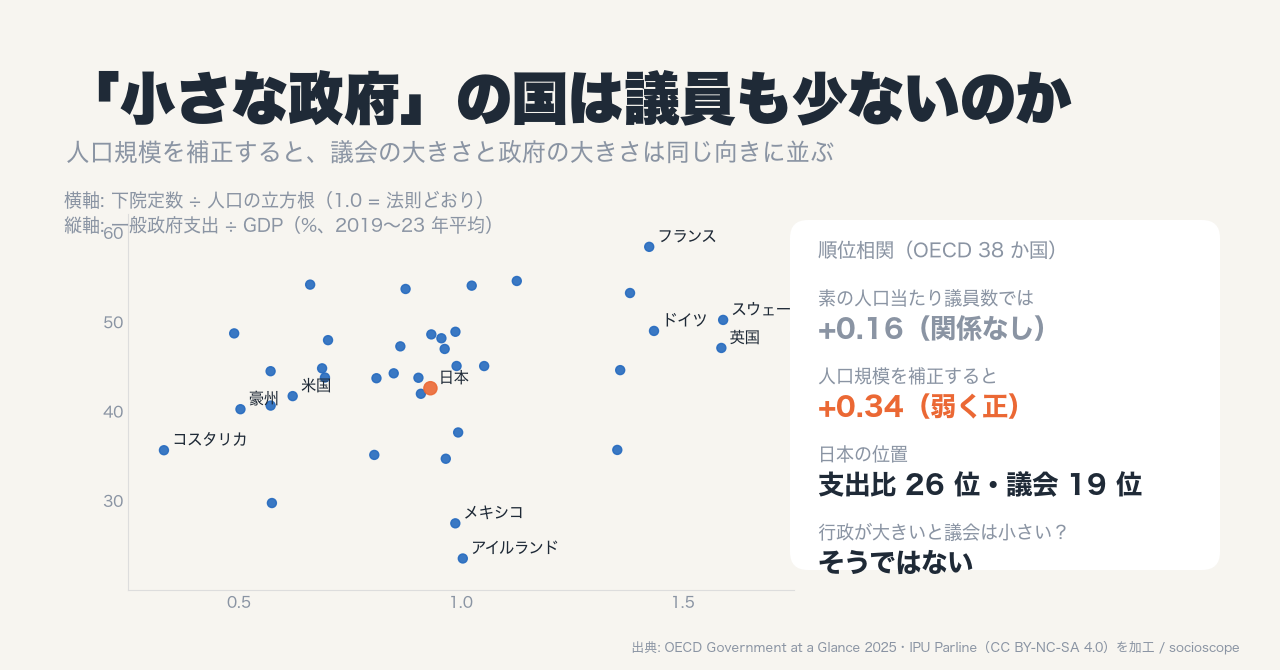
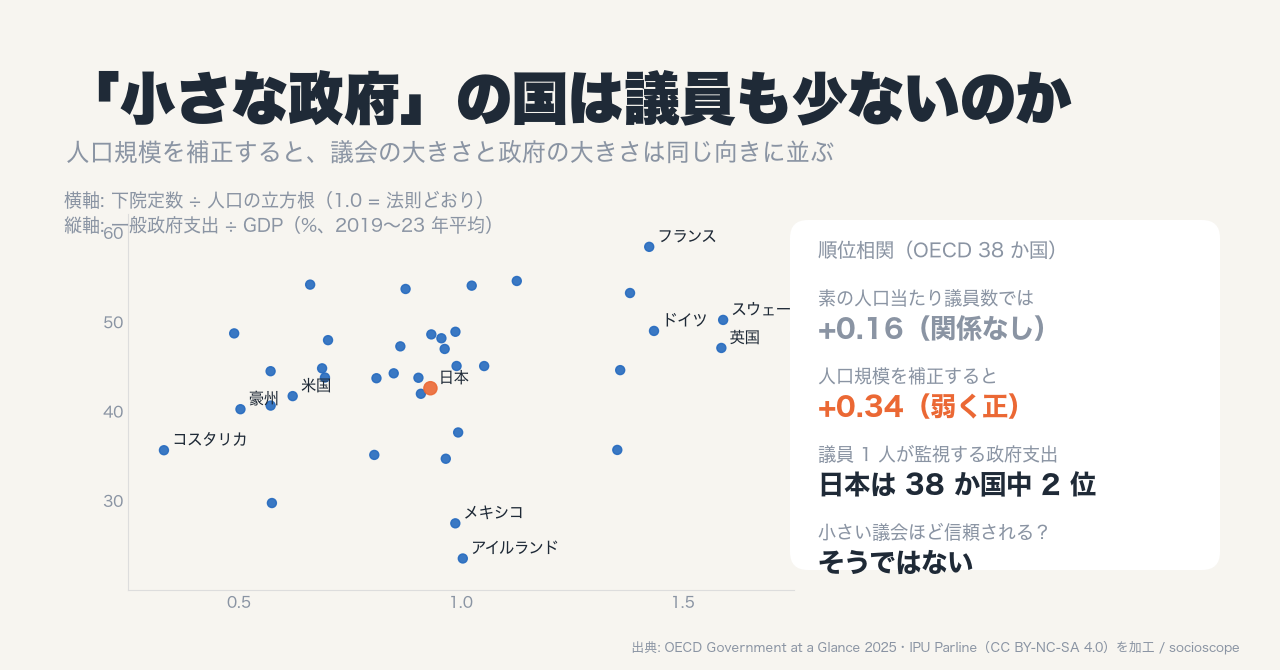
docs(parliament-size): 番外編記事に R17（選挙制度・議員 1 人当たりの監視対象・信頼）を反映、ヘッダー画像を更新

Changed region(s): [[0.625, 0.6567, 0.9062, 0.7463], [0.625, 0.7761, 0.8438, 0.806]]

diff --git a/docs/articles/headers/make_headers.py b/docs/articles/headers/make_headers.py
@@ -1347,8 +1347,8 @@ def parliament_size_extra() -> Path:
     items = [
         ("素の人口当たり議員数では", "+0.16（関係なし）", MUTED),
         ("人口規模を補正すると", "+0.34（弱く正）", ORANGE),
-        ("日本の位置", "支出比 26 位・議会 19 位", INK),
-        ("行政が大きいと議会は小さい？", "そうではない", INK),
+        ("議員 1 人が監視する政府支出", "日本は 38 か国中 2 位", INK),
+        ("小さい議会ほど信頼される？", "そうではない", INK),
     ]
     for i, (label, value, color) in enumerate(items):
         y = 372 - i * 78

diff --git a/docs/articles/2026-10-29-note-parliament-size-extra-government-size.final.md b/docs/articles/2026-10-29-note-parliament-size-extra-government-size.final.md
@@ -30,18 +30,49 @@
 
 もう一つ確かめたのは「行政が大きければ議会は小さくて済む」という代替関係です。これはありませんでした。議会と行政は、同じ方向に大きい国が多い。
 
+## 深掘り 1: 選挙制度のせいではないのか
+
+比較政治には「比例代表制の国ほど政府が大きい」という有名な結果があります（Persson と Tabellini、2003 年）。比例代表制は選挙区の定数が大きく議会も大きくなりやすいので、上の関係は「比例代表制が議会と政府の両方を大きくしている」だけかもしれません。
+
+確かめると、そうとも言い切れませんでした。OECD 38 か国を比例代表制（25 か国）とそれ以外（多数代表制 5、混合制 8。日本は混合制）に分けると、政府支出比の中央値は 44.8% と 43.7% でほとんど差がなく、有名な結果はこの粗い比較では出ません。比例代表制の国だけに絞っても、議会の大きさと政府の大きさの順位相関は +0.21 と弱まるものの消えず、それ以外の 13 か国では +0.58 とむしろ強い。選挙制度は関係の一部を説明しますが、全部ではありません。
+
+## 深掘り 2: 議員 1 人が監視する政府支出
+
+議会の大きさを人口ではなく「監視する相手の大きさ」で測り直すと、日本の位置が変わります。
+
+【画像を挿入: r17_spending_per_member.png】
+
+議員 1 人当たりの一般政府支出（10 億 USD、購買力平価、2019〜2023 年平均）。出典: OECD Government at a Glance 2025、IPU Parline（CC BY-NC-SA 4.0）
+
+一般政府支出を下院定数で割ると、日本の議員は 1 人当たり 52 億 USD（購買力平価）の政府支出を監視していることになります。38 か国中 2 位で、1 位の米国（236 億 USD）に次ぎ、3 位の豪州（45 億）、ドイツ（42 億）、イタリア（41 億）を上回ります。中央値（13 億）の 3.9 倍です。定数を 420 にすれば 57 億になり、2 位のまま 3 位との差が広がります。
+
+しかも、議員 1 人当たりの政府支出が大きい国ほど、議会予算が政府予算に占める比率は小さい（順位相関 −0.42）。監視する相手が大きい国ほど、監視に充てる資源は相対的に薄い。日本の議会予算は政府予算の 0.096% で、37 か国中 少ない方から 9 位です。
+
+## 深掘り 3: 小さい議会は信頼されるのか
+
+定数削減の推進には「議員を減らせば議会への信頼が回復する」という期待が含まれています。OECD の信頼調査（2023 年、日本は 2021 年）で確かめました。
+
+【画像を挿入: r17_trust_vs_cube.png】
+
+立方根補正比（横軸）と、立法府を信頼する人の割合（縦軸、高い＋やや高い）。32 か国。出典: OECD Survey on Drivers of Trust in Public Institutions 2023、IPU Parline
+
+人口規模を補正した議会の大きさと立法府への信頼の順位相関は +0.23 で、「小さい議会ほど信頼される」という向きではありません。弱いながら逆で、人口のわりに議会が大きい国（フィンランド、スウェーデン、ノルウェー）の方が信頼は高い。素の人口当たり議員数で見ても +0.35 です。信頼は議員 1 人当たりの政府支出とも無関係でした（−0.02）。日本の立法府への信頼は 19.3% で、32 か国中 低い方から 2 位。議会を小さくすれば信頼が上がるという横断面の証拠は、この範囲ではありません。
+
 ## どう読むか
 
-質問の答えは「ある。ただし人口規模を補正した指標で見たときだけ、弱く」です。日本の人口当たり議員数が少ないのは、第一に人口が 1 億 2 千万人と大きいからで、政府観の違いではありません。しかし人口の効果を除いた「議会をどれだけ大きくするか」という選択は、政府をどれだけ大きくするかという選択と同じ向きにあるようです。
+質問の答えは「ある。ただし人口規模を補正した指標で見たときだけ、弱く」です。日本の人口当たり議員数が少ないのは、第一に人口が 1 億 2 千万人と大きいからで、政府観の違いではありません。しかし人口の効果を除いた「議会をどれだけ大きくするか」という選択は、政府をどれだけ大きくするかという選択と同じ向きにあるようです。選挙制度で全部は説明できませんでした。
+
+将来に向けて言えることが一つあります。高齢化で年金と医療の支出は増え、政府は放っておいても大きくなります。議会の監視対象は自動的に膨らむ。日本の議員 1 人が監視する政府支出は既に世界で 2 番目に大きく、定数を減らせばさらに広がります。定数を減らすなら、職員と委員会の資源で監視の薄まりを補うのかを同時に決める必要があります。これは本編の結論（世論の不満に応える政策は人数ではなく報酬と手当の水準と透明性）を、将来の側から言い換えたものです。
 
 これは因果ではありません。議会の大きさも政府の大きさも、建国期の制度選択、政治文化、連邦制かどうかといった共通の原因を持ちます。連邦制の国では州議会の議員と州政府の支出が国の数字に入らないので、議会の大きさを過小に測っています。「小さな政府」も支出比だけで測っており、規制の強さは含みません。
 
-日本はどちらの指標でも中位です。支出比 42.5% は 38 か国中 高い方から 26 位、立方根補正比 0.93 は 19 位。「小さな政府で議会も小さい」側にはいません。本編の結論（世論の不満に応える政策は人数ではなく報酬と手当の水準と透明性）は、この番外編で変わりません。
+日本は政府の大きさでも議会の大きさでも中位です。支出比 42.5% は 38 か国中 高い方から 26 位、立方根補正比 0.93 は 19 位。「小さな政府で議会も小さい」側にはいません。突出しているのは、議員 1 人が監視する政府支出の大きさと、立法府への信頼の低さです。
 
 ## 出典とライセンス
 
 - OECD (2025), Government at a Glance 2025, https://sdmx.oecd.org (accessed 2026-10-29)。OECD Terms & Conditions（出典表示で利用可）。
+- OECD (2025), OECD Survey on Drivers of Trust in Public Institutions 2023（Government at a Glance の「Trust, security and dignity」）。
 - Inter-Parliamentary Union, Parline: global data on national parliaments, https://data.ipu.org (accessed 2026-10-28)。CC BY-NC-SA 4.0（非商用）。
 - 連邦制の分類は Forum of Federations。
-- 分析コードと詳細レポート（判定基準、頑健性チェック、再現手順つき）は GitHub の socioscope リポジトリで公開しています（コードは MIT ライセンス）: https://github.com/mendorie/socioscope/blob/main/themes/parliament-size/reports/2026-10-29-r16-government-size.md
+- 分析コードと詳細レポート（判定基準、頑健性チェック、再現手順つき）は GitHub の socioscope リポジトリで公開しています（コードは MIT ライセンス）: https://github.com/mendorie/socioscope/blob/main/themes/parliament-size/reports/2026-10-29-r16-government-size.md （R16）、同 2026-10-30-r17-system-oversight-trust.md（R17）
 - 図を転載する場合は上記の出典表記を付けてください。

diff --git a/docs/articles/2026-10-29-note-parliament-size-extra-government-size.md b/docs/articles/2026-10-29-note-parliament-size-extra-government-size.md
@@ -30,18 +30,49 @@
 
 もう一つ確かめたのは「行政が大きければ議会は小さくて済む」という代替関係です。これはありませんでした。議会と行政は、同じ方向に大きい国が多い。
 
+## 深掘り 1: 選挙制度のせいではないのか
+
+比較政治には「比例代表制の国ほど政府が大きい」という有名な結果があります（Persson と Tabellini、2003 年）。比例代表制は選挙区の定数が大きく議会も大きくなりやすいので、上の関係は「比例代表制が議会と政府の両方を大きくしている」だけかもしれません。
+
+確かめると、そうとも言い切れませんでした。OECD 38 か国を比例代表制（25 か国）とそれ以外（多数代表制 5、混合制 8。日本は混合制）に分けると、政府支出比の中央値は 44.8% と 43.7% でほとんど差がなく、有名な結果はこの粗い比較では出ません。比例代表制の国だけに絞っても、議会の大きさと政府の大きさの順位相関は +0.21 と弱まるものの消えず、それ以外の 13 か国では +0.58 とむしろ強い。選挙制度は関係の一部を説明しますが、全部ではありません。
+
+## 深掘り 2: 議員 1 人が監視する政府支出
+
+議会の大きさを人口ではなく「監視する相手の大きさ」で測り直すと、日本の位置が変わります。
+
+【画像を挿入: r17_spending_per_member.png】
+
+議員 1 人当たりの一般政府支出（10 億 USD、購買力平価、2019〜2023 年平均）。出典: OECD Government at a Glance 2025、IPU Parline（CC BY-NC-SA 4.0）
+
+一般政府支出を下院定数で割ると、日本の議員は 1 人当たり 52 億 USD（購買力平価）の政府支出を監視していることになります。38 か国中 2 位で、1 位の米国（236 億 USD）に次ぎ、3 位の豪州（45 億）、ドイツ（42 億）、イタリア（41 億）を上回ります。中央値（13 億）の 3.9 倍です。定数を 420 にすれば 57 億になり、2 位のまま 3 位との差が広がります。
+
+しかも、議員 1 人当たりの政府支出が大きい国ほど、議会予算が政府予算に占める比率は小さい（順位相関 −0.42）。監視する相手が大きい国ほど、監視に充てる資源は相対的に薄い。日本の議会予算は政府予算の 0.096% で、37 か国中 少ない方から 9 位です。
+
+## 深掘り 3: 小さい議会は信頼されるのか
+
+定数削減の推進には「議員を減らせば議会への信頼が回復する」という期待が含まれています。OECD の信頼調査（2023 年、日本は 2021 年）で確かめました。
+
+【画像を挿入: r17_trust_vs_cube.png】
+
+立方根補正比（横軸）と、立法府を信頼する人の割合（縦軸、高い＋やや高い）。32 か国。出典: OECD Survey on Drivers of Trust in Public Institutions 2023、IPU Parline
+
+人口規模を補正した議会の大きさと立法府への信頼の順位相関は +0.23 で、「小さい議会ほど信頼される」という向きではありません。弱いながら逆で、人口のわりに議会が大きい国（フィンランド、スウェーデン、ノルウェー）の方が信頼は高い。素の人口当たり議員数で見ても +0.35 です。信頼は議員 1 人当たりの政府支出とも無関係でした（−0.02）。日本の立法府への信頼は 19.3% で、32 か国中 低い方から 2 位。議会を小さくすれば信頼が上がるという横断面の証拠は、この範囲ではありません。
+
 ## どう読むか
 
-質問の答えは「ある。ただし人口規模を補正した指標で見たときだけ、弱く」です。日本の人口当たり議員数が少ないのは、第一に人口が 1 億 2 千万人と大きいからで、政府観の違いではありません。しかし人口の効果を除いた「議会をどれだけ大きくするか」という選択は、政府をどれだけ大きくするかという選択と同じ向きにあるようです。
+質問の答えは「ある。ただし人口規模を補正した指標で見たときだけ、弱く」です。日本の人口当たり議員数が少ないのは、第一に人口が 1 億 2 千万人と大きいからで、政府観の違いではありません。しかし人口の効果を除いた「議会をどれだけ大きくするか」という選択は、政府をどれだけ大きくするかという選択と同じ向きにあるようです。選挙制度で全部は説明できませんでした。
+
+将来に向けて言えることが一つあります。高齢化で年金と医療の支出は増え、政府は放っておいても大きくなります。議会の監視対象は自動的に膨らむ。日本の議員 1 人が監視する政府支出は既に世界で 2 番目に大きく、定数を減らせばさらに広がります。定数を減らすなら、職員と委員会の資源で監視の薄まりを補うのかを同時に決める必要があります。これは本編の結論（世論の不満に応える政策は人数ではなく報酬と手当の水準と透明性）を、将来の側から言い換えたものです。
 
 これは因果ではありません。議会の大きさも政府の大きさも、建国期の制度選択、政治文化、連邦制かどうかといった共通の原因を持ちます。連邦制の国では州議会の議員と州政府の支出が国の数字に入らないので、議会の大きさを過小に測っています。「小さな政府」も支出比だけで測っており、規制の強さは含みません。
 
-日本はどちらの指標でも中位です。支出比 42.5% は 38 か国中 高い方から 26 位、立方根補正比 0.93 は 19 位。「小さな政府で議会も小さい」側にはいません。本編の結論（世論の不満に応える政策は人数ではなく報酬と手当の水準と透明性）は、この番外編で変わりません。
+日本は政府の大きさでも議会の大きさでも中位です。支出比 42.5% は 38 か国中 高い方から 26 位、立方根補正比 0.93 は 19 位。「小さな政府で議会も小さい」側にはいません。突出しているのは、議員 1 人が監視する政府支出の大きさと、立法府への信頼の低さです。
 
 ## 出典とライセンス
 
 - OECD (2025), Government at a Glance 2025, https://sdmx.oecd.org (accessed 2026-10-29)。OECD Terms & Conditions（出典表示で利用可）。
+- OECD (2025), OECD Survey on Drivers of Trust in Public Institutions 2023（Government at a Glance の「Trust, security and dignity」）。
 - Inter-Parliamentary Union, Parline: global data on national parliaments, https://data.ipu.org (accessed 2026-10-28)。CC BY-NC-SA 4.0（非商用）。
 - 連邦制の分類は Forum of Federations。
-- 分析コードと詳細レポート（判定基準、頑健性チェック、再現手順つき）は GitHub の socioscope リポジトリで公開しています（コードは MIT ライセンス）: https://github.com/mendorie/socioscope/blob/main/themes/parliament-size/reports/2026-10-29-r16-government-size.md
+- 分析コードと詳細レポート（判定基準、頑健性チェック、再現手順つき）は GitHub の socioscope リポジトリで公開しています（コードは MIT ライセンス）: https://github.com/mendorie/socioscope/blob/main/themes/parliament-size/reports/2026-10-29-r16-government-size.md （R16）、同 2026-10-30-r17-system-oversight-trust.md（R17）
 - 図を転載する場合は上記の出典表記を付けてください。

diff --git a/docs/specs/parliament-size-followup.md b/docs/specs/parliament-size-followup.md
@@ -15,7 +15,7 @@
 - 追加（世論の検証 H12・H13、2026-10-29 夕）→ **R14** `themes/parliament-size/reports/2026-10-29-r14-pay-and-workload.md`（整合・整合）。国会会議録 API・ILOSTAT 賃金・WDI 1 人当たり GDP を結線。記事（論点 7・8、総括）に R11〜R14 と立場を反映済み。
 - 追加（ユーザー提起 H2e、2026-10-28 夜）→ **R10** `themes/parliament-size/reports/2026-10-28-r10-bureaucracy.md`（ILOSTAT 公務就業者 × 議員数、ρ = +0.33 で向きは逆、判定は中間）。記事（論点 2・総括）にも反映済み。
 - 事後追加の仮説と判定基準は `design/themes/parliament-size.md`「事後追加の仮説（2026-10-28）」に、結果の計算前に固定した。
-- 番外編（2026-10-29 深夜）: 議会の大きさ × 政府の大きさ（小さな政府／大きな政府）→ **R16** `themes/parliament-size/reports/2026-10-29-r16-government-size.md`（H15a 不支持・H15b 不支持: 立方根補正すると ρ = +0.34 で相関が現れる・H15d 整合）。OECD Government at a Glance 2025（SDMX-JSON）を `oecd.py` で結線。プラン: `docs/specs/parliament-size-government-size.md`。本編の記事には含めない。**R17**（2026-10-30、`reports/2026-10-30-r17-system-oversight-trust.md`）: H16a 選挙制度の層別（Persson–Tabellini 再現せず、比例代表制内 ρ = +0.21 中間）、H16b 議員 1 人当たり政府支出（日本 2 位、整合）、H16c 議会の大きさ × 信頼（+0.23、「小さい議会ほど信頼」は不支持）。OECD Trust Survey を結線。番外編記事 `docs/articles/2026-10-29-note-parliament-size-extra-government-size.md`（`.final.md`、ヘッダー画像 `docs/articles/headers/2026-10-29-note-parliament-size-extra-government-size.png`）を 2026-10-29 に作成（note 未投稿）。
+- 番外編（2026-10-29 深夜）: 議会の大きさ × 政府の大きさ（小さな政府／大きな政府）→ **R16** `themes/parliament-size/reports/2026-10-29-r16-government-size.md`（H15a 不支持・H15b 不支持: 立方根補正すると ρ = +0.34 で相関が現れる・H15d 整合）。OECD Government at a Glance 2025（SDMX-JSON）を `oecd.py` で結線。プラン: `docs/specs/parliament-size-government-size.md`。本編の記事には含めない。**R17**（2026-10-30、`reports/2026-10-30-r17-system-oversight-trust.md`）: H16a 選挙制度の層別（Persson–Tabellini 再現せず、比例代表制内 ρ = +0.21 中間）、H16b 議員 1 人当たり政府支出（日本 2 位、整合）、H16c 議会の大きさ × 信頼（+0.23、「小さい議会ほど信頼」は不支持）。OECD Trust Survey を結線。番外編記事 `docs/articles/2026-10-29-note-parliament-size-extra-government-size.md`（`.final.md`、ヘッダー画像 `docs/articles/headers/2026-10-29-note-parliament-size-extra-government-size.png`）を 2026-10-29 に作成し、2026-10-30 に R17（深掘り 1〜3）を反映。note 下書き n89c35e24b20f（未公開）。
 
 ## 1. 現状
 

diff --git a/docs/specs/parliament-size-government-size.md b/docs/specs/parliament-size-government-size.md
@@ -5,7 +5,7 @@
 
 ## 0. 状態
 - **実施済み（2026-10-29 深夜）**: R16 `themes/parliament-size/reports/2026-10-29-r16-government-size.md`。H15a 不支持（ρ = +0.16）、H15b 不支持（立方根補正比で ρ = +0.34、相関はむしろ現れる）、H15c 正、H15d 整合。税収は Revenue Statistics の SDMX が空応答のため政府収入比で代替。番外編の記事 `docs/articles/2026-10-29-note-parliament-size-extra-government-size.md` を作成済み（note 下書き n89c35e24b20f、未公開）。
-- **R17（2026-10-30）**: 深掘り 3 本（選挙制度の層別・議員 1 人当たりの監視対象・議会への信頼）を `themes/parliament-size/reports/2026-10-30-r17-system-oversight-trust.md` に。H16a (i) 再現せず・(ii) 中間、H16b 整合（日本 2 位）、H16c 中間（向きは逆）。記事未反映。
+- **R17（2026-10-30）**: 深掘り 3 本（選挙制度の層別・議員 1 人当たりの監視対象・議会への信頼）を `themes/parliament-size/reports/2026-10-30-r17-system-oversight-trust.md` に。H16a (i) 再現せず・(ii) 中間、H16b 整合（日本 2 位）、H16c 中間（向きは逆）。記事（深掘り 1〜3）と note 下書きに 2026-10-30 反映済み。
 - 着手する場合のブランチ: `feat/parliament-size-r16-government-size`。
 
 ## 1. 問い
